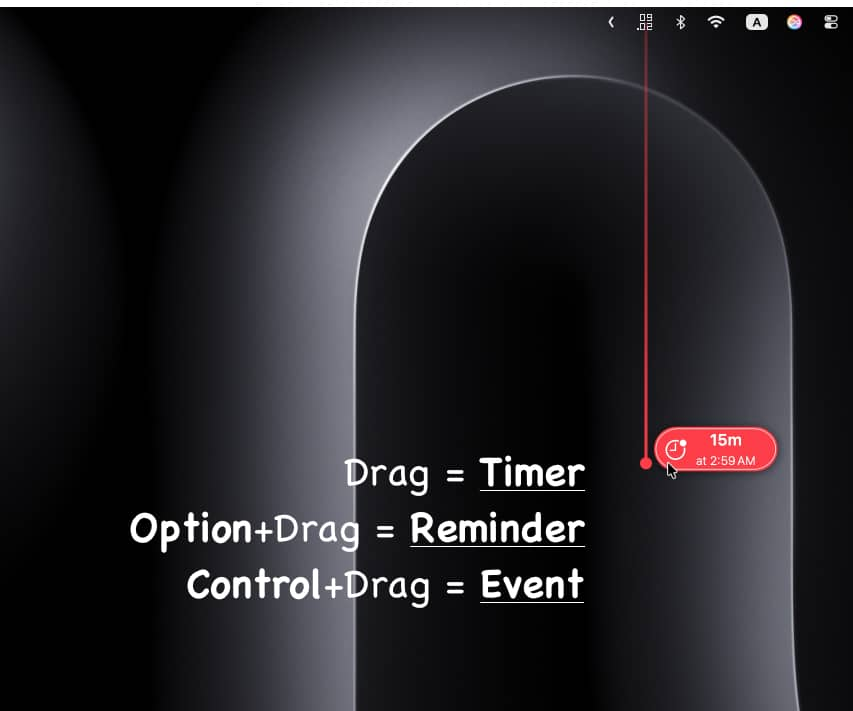
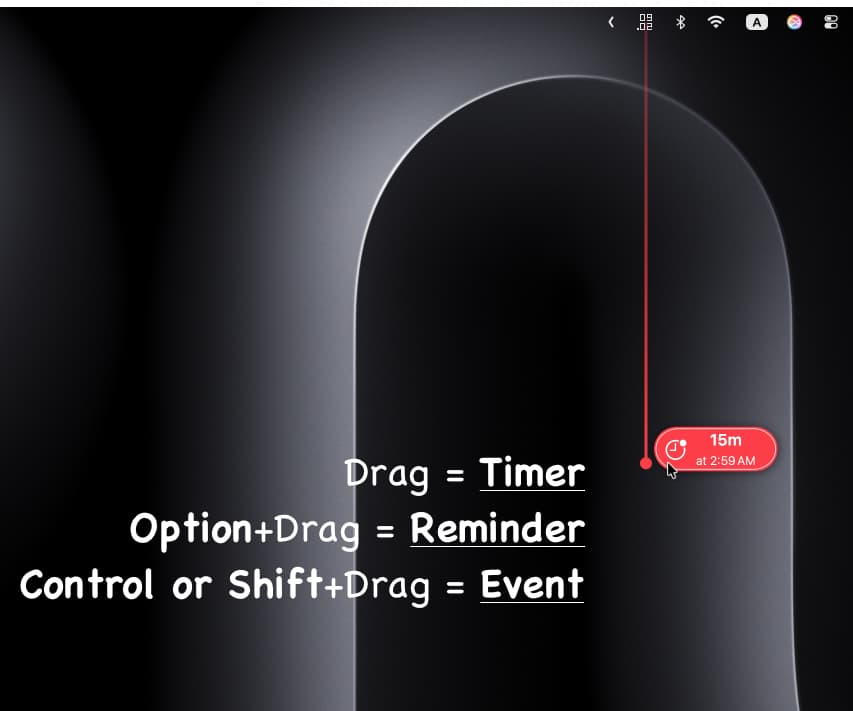
Update to DragTime 1.0.4

Changed region(s): [[0.0, 0.7736, 0.3962, 0.8664]]

diff --git a/dragtime.html b/dragtime.html
@@ -91,7 +91,7 @@
                     <ul>
                         <li><strong>A simple drag</strong> creates a <strong>Timer</strong></li>
                         <li>Hold <strong>⌥ Option</strong> and drag for a <strong>Reminder</strong></li>
-                        <li>Hold <strong>⌃ Control</strong> and drag for a <strong>Calendar Event</strong></li>
+                        <li>Hold <strong>⌃ Control or ⇧ Shift</strong> and drag for a <strong>Calendar Event</strong></li>
                     </ul>
                     <p><strong>Your intuition is the interface.</strong></p>
                     <p>With <strong>Smart Drag</strong>, everything is fully customizable in Settings.<br>Assign any function to any key combination—choose what feels most natural in your hands.</p>
